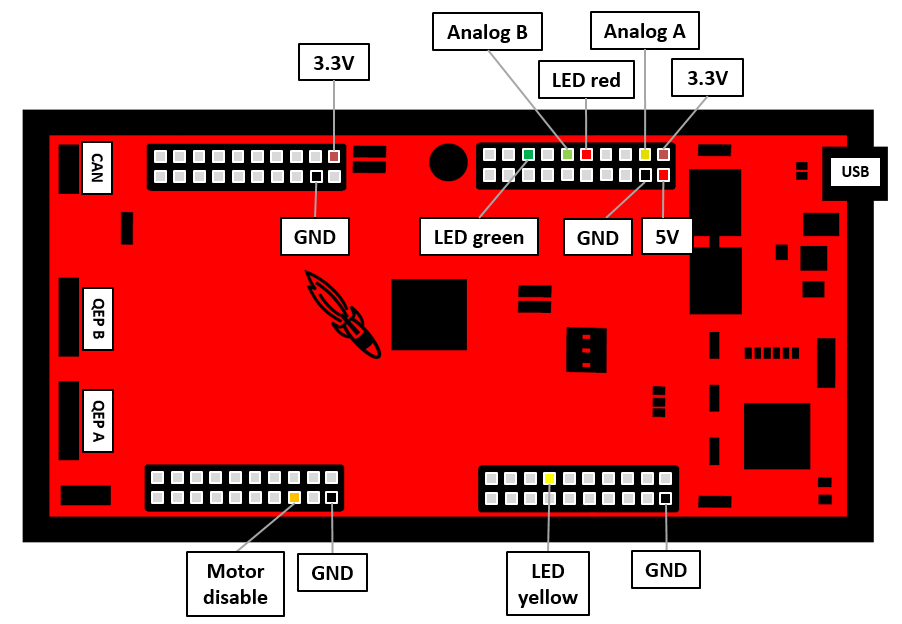
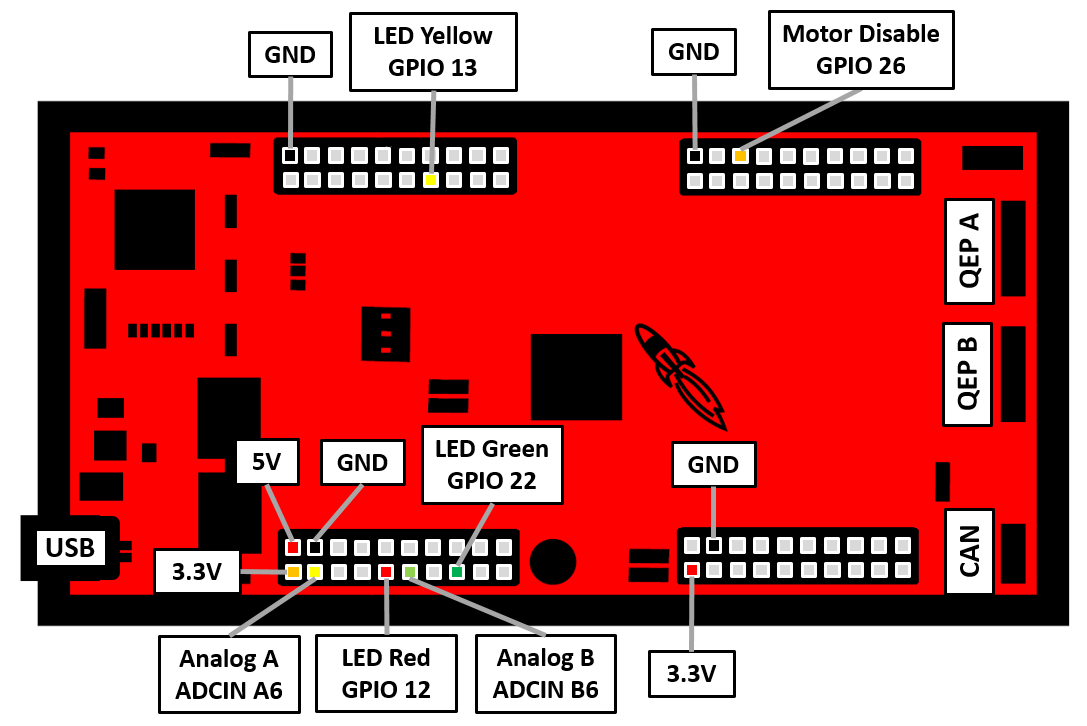
Updating TI evaluation board documentation

diff --git a/electronics/ti_electronics/README.md b/electronics/ti_electronics/README.md
@@ -1,36 +1,196 @@
 # Texas Instruments Evaluation Board Electronics
-<img src="images/ti_eval_board_1.jpg" width="500"> <br>  
+<img src="images/ti_eval_board_1.jpg" width="400"> <br>*Launchpad F28069M with two DRV8305 Booster Packs - weight: 85g*
+
+## Description
+<img src="images/ti_eval_board_2.jpg" width="300"><br>  
+
+* the Launchpad F28069M is optimized for high performance dual brushless motor control
+* each Booster Pack drives one brushless motor with continuous current up to 15A (20A peak)
+* max supply voltage 45V - we operate our robots at 24V
+* Field Oriented Control (FOC) at 10kHz for each channel
+* 1kHz control loop with realtime pc and can card
+* CAN or USB communication
+
+|Description|Details|Ordering Information|Comments|
+|---|---|---|---|
+|TI Launchpad F28069M|[Launchpad Product Page](http://www.ti.com/tool/LAUNCHXL-F28069M)|Mouser 595-LAUNCHXL-F28069M<br>DigiKey 296-38832-ND|[Launchpad F28069M Overview](https://www.ti.com/lit/ug/sprui11b/sprui11b.pdf?ts=1611066220793&ref_url=https%253A%252F%252Fwww.google.com%252F)|
+|TI Booster Pack DRV8305EVM|[Booster Pack Product Page](http://www.ti.com/tool/BOOSTXL-DRV8305EVM)|Mouser 595-STXL-DRV8305EVM<br>DigiKey 296-43181-ND|[BOOSTXL-DRV8305EVM User’s Guide](https://www.ti.com/lit/ug/slvuai8a/slvuai8a.pdf?ts=1611146789960&ref_url=https%253A%252F%252Fwww.ti.com%252Ftool%252FBOOSTXL-DRV8305EVM)|
 
 ---
-## Electronics for Dual Brushless Motor Control
-<img src="images/ti_eval_board_2.jpg" width="400"> <br>  
-
-Texas Instruments Evaluation Boards:  
-* Microcontroller: TI Launchpad F28069M -> [Launchpad Product Page](http://www.ti.com/tool/LAUNCHXL-F28069M)
-* 2 x Motor Driver Card: TI Boosterpacks DRV8305  -> [Booster Pack Product Page](http://www.ti.com/tool/BOOSTXL-DRV8305EVM)
----
-<img src="images/launchpad_comparison_1.jpg" width="400"> <br>
+The TI Evaluation Board Electronics are used for the following robots:
+* [TriFingerEDU v1](../../mechanics/tri_finger_edu_v1/README.md#trifingeredu-v1)
+* [Quadruped Robot 8dof v1](../../mechanics/quadruped_robot_8dof_v1/README.md#quadruped-robot-8dof-v1)
+* [Leg Test Stand v1](../../mechanics/leg_test_stand_v1/README.md#leg-test-stand-v1)
 
 ---
-## BL System Overview
-<img src="images/bl_system_overview.jpg" width="600">
+## Brushless Motor Control System Overview
+<img src="images/bl_system_overview.jpg" width="500"><br>
 
 ---
 ## FOC - Field Oriented Control
-<img src="images/foc.jpg" width="600">
+<img src="images/foc.jpg" width="500"><br>
+
+* [Talk Dave Wilson - Teaching Old Motors New Tricks ](https://www.youtube.com/watch?v=VI7pdKrchM0)
+
+---
+## Miniaturized Micro Driver Electronics
+<img src="images/launchpad_comparison_2.jpg" width="400"><br>*Comparision: Micro Driver Electronics and TI Evaluation Boards*
+
+* we have developed a miniaturized version of the Texas Instruments motor driver cards called Micro Driver Electronics
+* the micro driver electronics have the same capabilities as the TI evaluation boards
+* the only difference is that the onboard USB flash programmer was removed - so for flashing the micro driver cards you need an external [flash programmer](../details/details_components.md#jtag-flash-programmer)
+* the micro driver cards are a factor of 10 smaller and a factor of 6 lighter
+* more information: [Micro Driver Electronics Documentation](../micro_driver_electronics/README.md#micro-driver-electronics)
 
 ---
 ## Launchpad Pin Assignment
-<img src="images/launchpad_pins_1.png" width="600">  
+<img src="images/launchpad_pins_1.png" width="500"><br>  
+
+* we use the digital GPIO pins to connect status leds
+* connecting the GPIO 26 to ground will disable the motor drivers
+* the launchpad has 16 analog input channels
+* for each booster pack it measures the three phase voltages, the three phase currents and the supply voltage
+* so there are 2 analog channels free - ADCIN A6 and ADCIN B6
+* **Caution:** Don't connect 5V sources to the analog input channels
+* the maximal voltage for the analog input channels is 3,3V
+---
+## Booster Pack Positions
+<img src="images/launchpad_pins_2.png" width="500"><br>
 
 ---
-<img src="images/launchpad_pins_2.png" width="600">
+### Setting the Jumpers
+<img src="images/ti_board_preparation_1.jpg" width="600"><br>*TI Launchpad with jumper setting as delivered*
 
 ---
+<img src="images/ti_board_preparation_2.jpg" width="600"><br>*Remove the jumpers JP1, JP2, JP4 and JP5.*
+
+**Caution:** Make sure that the jumpers JP1 and JP2 are removed when you connect the launchpad to USB and an external power supply.<br>
+This insulates your computer from the external power that is supplied through the booster backs.
+
+---
+<img src="images/ti_board_preparation_3.jpg" width="600"><br>*Install jumper JP6 - make sure that JP7 and JP3 are also connected*
+
+---
+## Preparing the Connector Interface
+<img src="images/connector_interface.jpg" width="400"><br>*Connector interface TI Evaluation Boards after modification.*
+
+We modify the connectors of the TI Evaluation Boards in order to make them compatible with our [actuator module connector interface](../details/details_wiring.md#actuator-module-wiring).
+
+---
+### Installing the Encoder Connectors
+
+<img src="images/launchpad_preparation_1.jpg" width="300"><br>*Prepare the [encoder wires](../details/details_components.md#kabeltronik-encoder-wires) and a [5 pole Hirose connector](../details/details_components.md#hirose-df13-straight-pin-headers).*
+
+<img src="images/launchpad_preparation_2.jpg" width="300"><br>*Solder the wires to the Hirose connector.*
+
+<img src="images/pin_assignment_connector.png" width="350"><br>*Pin assignment Hirose connector.*
+
+<img src="images/launchpad_preparation_3.jpg" width="300"><br>*Apply thin heat shrink to the red and yellow wire.*
+
+<img src="images/launchpad_preparation_4.jpg" width="300"><br>*Apply a larger heat shrink around all the wires.*
+
+<img src="images/launchpad_preparation_5.jpg" width="300"><br>*Repeat the steps and prepare the second cable.*
+
+<img src="images/launchpad_preparation_6.jpg" width="300"><br>*Find the encoder pins on your launchpad.<br>The two ports are labeled QEP_A and QEP_B.*
+
+<img src="images/launchpad_preparation_7.jpg" width="300"><br>*Use flat pliers to bend the pins down by 90 degrees.*
+
+<img src="images/launchpad_preparation_8.jpg" width="300"><br>*Solder the encoder wires and apply heat shrink.*
+
+<img src="images/pin_assignment_launchpad.png" width="300"><br>*Encoder pin assignment Launchpad.*
+
+<img src="images/launchpad_preparation_9.jpg" width="400"><br>*The Launchpad is now prepared.*
+
+---
+## Preparing the Booster Packs
+### Modifying the Screw Terminals
+
+<img src="images/booster_preparation_3.jpg" width="350"><br>*We modify the screw terminals on the booster packs.<br>This is optional - you can also route the wires differently.<br>Both booster packs have to be connected to the power supply.*
+
+<img src="images/booster_preparation_4.jpg" width="300"><br>*Loosen the screws on the screw terminal as much as possible.*
+
+<img src="images/booster_preparation_5.jpg" width="300"><br>*Use a small screwdriver to bend the metal clips outwards.*
+
+<img src="images/booster_preparation_6.jpg" width="300"><br>*Repeat for all 5 metal clips.*
+
+<img src="images/booster_preparation_7.jpg" width="300"><br>*Push on the screws from the bottom side and remove them.<br>Keep the screws for reinstalling them later.*
+
+<img src="images/booster_preparation_8.jpg" width="300"><br>*Remove the metal clips - they are no longer needed.*
+
+<img src="images/booster_preparation_9.jpg" width="300"><br>*Mark the hole locations on the two pin power terminal with a thin pen.*
+
+<img src="images/booster_preparation_10.jpg" width="300"><br>*Use your fingers or pliers to push the plastic covers inwards.<br>It helps to gently rotate and wiggle the cover.*
+
+<img src="images/booster_preparation_11.jpg" width="300"><br>*Remove the power terminal and the motor phase terminal covers.*
+
+<img src="images/booster_preparation_12.jpg" width="300"><br>*Drill the plastic cover in the two locations that you have marked before.<br> Start with a 2mm drill, then drill with 2,5mm and finally with 3mm.*
+
+<img src="images/booster_preparation_13.jpg" width="300"><br>*Reinstall the plastic covers.<br>The cover of the 2 pin power terminal is installed as before.<br>Rotate the 3 pin cover by 180 degrees and install it reversed.*
+
+<img src="images/booster_preparation_14.jpg" width="400"><br>*On the bottom booster pack we only modify the 3 pin phase terminal.<br>The two pin power terminal can remain unchanged. (picture above - right side)*
+
+### Preparing the Power Supply Wires
+
+<img src="images/booster_preparation_15.jpg" width="300"><br>*Prepare the power supply wire - we use [1mm² wire](../details/details_components.md#power-connectors-and-cable).<br>Carefully cut into the insulation with a cutter.<br>Rotate the wire and cut all the way around.*
+
+<img src="images/booster_preparation_16.jpg" width="300"><br>*Cut the insulation again with an offset of about 5mm.*
+
+<img src="images/booster_preparation_17.jpg" width="300"><br>*Carefully cut a part of the insulation off.<br>Remove the rest of the separated insulation with your fingers.*
+
+<img src="images/booster_preparation_18.jpg" width="300"><br>*Twist the wire and apply solder.*
+
+<img src="images/booster_preparation_19.jpg" width="300"><br>*Repeat the same steps for the power supply ground wire.*
+
+<img src="images/booster_preparation_20.jpg" width="300"><br>*Shorten the wires to about 7cm, remove 5mm of the insulation and apply solder.*
+
+<img src="images/booster_preparation_21.jpg" width="350"><br>*You can place the booster packs on the launchpad to determine the wire lenght.*
+
+<img src="images/booster_preparation_22.jpg" width="400"><br>*Install the [4mm connectors](../details/details_components.md#power-connectors-and-cable) for the power supply.<br>The power supply wires are now prepared.*
+
+### Preparing the Motor Phase Wires
+
+<img src="images/booster_preparation_23.jpg" width="300"><br>*Prepare the six motor phase wires and connectors.<br>We use [0,5mm² wire](../details/details_components.md#motor-phase-wires) and [2mm connectors](../details/details_components.md#motor-phase-connectors).*
+
+<img src="images/booster_preparation_24.jpg" width="300"><br>*Solder the connectors, apply heat shrink and label the motor phases.*
+
+<img src="images/booster_preparation_25.jpg" width="400"><br>*Install the power wire and the motor phase wires.<br>The booster packs are now prepared.*
+
+### Installing the Booster Packs
+
+<img src="images/booster_preparation_26.jpg" width="300"><br>*Install the two booster packs on the bottom of the launchpad.<br>Make sure that the pin headers are lined up correctly.*
+
+<img src="images/booster_preparation_27.jpg" width="500"><br>*The TI dual motor driver electronics are now ready to be used with the actuator modules.*
+
+
+## Setting the Dip Switch
+<img src="images/dip_switch.png" width="600"><br>
+
+* For running the motor driver board from flash set the dip switch to: ON - ON - OFF
+* For programming the motor driver board via USB set the dip switch to: ON - ON - ON
+
+## CAN Control
+<img src="../images/can_card.jpg" width="300"><br>*Dual Channel CAN card*
+
+<img src="../images/can_connector.jpg" width="300"><br>*9 pin D-sub connector*
+
+* for CAN communication we use a [dual channel can card](../details/details_components.md#can-card)
+* the pin assignment of the [9 pole D-sub connector](../details/details_components.md#can-connector) is documented here: [CAN Connector Wiring](../details/details_wiring.md#can-connector-wiring)
+* flash the Launchpad via USB with dip switch setting ON - ON - ON
+* then set the dip switches to ON - ON - OFF (run from flash) for motor control via CAN
 
 ## More Details
 * [Details Wiring](../details/details_wiring.md#details-wiring)
 * [Details Electronic Components and Tools](../details/details_components.md#details-electronic-components)
+
+---
+## More Information
+[Open Dynamic Robot Initiative - Webpage](https://open-dynamic-robot-initiative.github.io)  
+[Open Dynamic Robot Initiative - YouTube Channel](https://www.youtube.com/channel/UCx32JW2oIrax47Gjq8zNI-w)   
+[Open Dynamic Robot Initiative - Forum](https://odri.discourse.group/categories)  
+[Open Dynamic Robot Initiative - Paper](https://arxiv.org/pdf/1910.00093.pdf)  
+[Hardware Overview](../../README.md#open-robot-actuator-hardware)  
+[Software Overview](https://github.com/open-dynamic-robot-initiative/open-dynamic-robot-initiative.github.io/wiki)  
+[Back to Electronics Overview](../README.md)
 
 ## Authors
 Felix Grimminger
@@ -40,10 +200,3 @@ BSD 3-Clause License
 
 ## Copyright
 Copyright (c) 2019-2020, Max Planck Gesellschaft and New York University
-
-## More Information
-[Open Dynamic Robot Initiative - Webpage](https://open-dynamic-robot-initiative.github.io)  
-[Open Dynamic Robot Initiative - YouTube Channel](https://www.youtube.com/channel/UCx32JW2oIrax47Gjq8zNI-w)  
-[Hardware Overview](../README.md)  
-[Software Overview](https://github.com/open-dynamic-robot-initiative/open-dynamic-robot-initiative.github.io/wiki)  
-[Back to Electronics Overview](../README.md)
